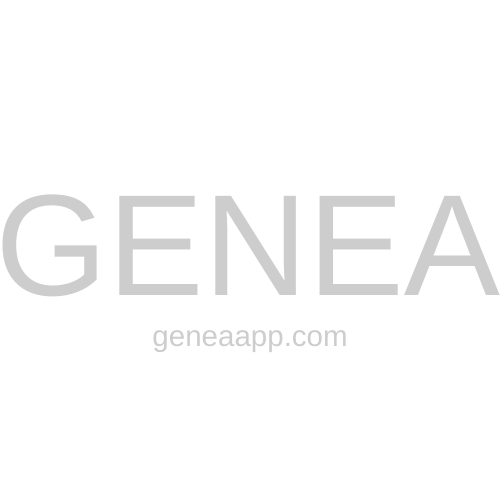
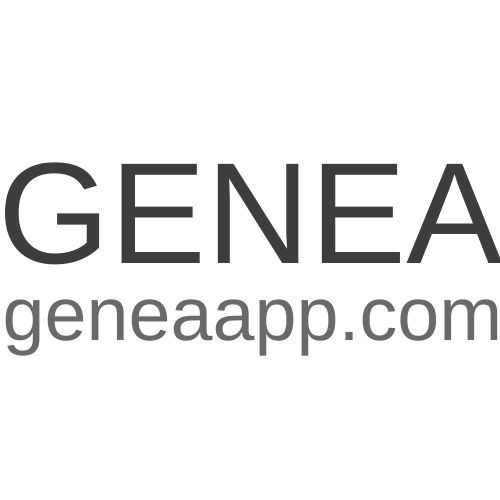
feat/watermark added

Changed region(s): [[0.0, 0.3, 1.0, 0.72]]

diff --git a/lib/storage-server.ts b/lib/storage-server.ts
@@ -1,4 +1,6 @@
 import { createClient } from "@supabase/supabase-js";
+import sharp from "sharp";
+import path from "path";
 
 const supabase = createClient(
   process.env.NEXT_PUBLIC_SUPABASE_URL!,
@@ -7,11 +9,41 @@ const supabase = createClient(
 
 type BucketName = "sin-modelo" | "prenda-unica" | "prendas-separadas";
 
+async function applyWatermark(imageBuffer: Buffer): Promise<Buffer> {
+  const watermarkPath = path.join(process.cwd(), "public", "GENEA.png");
+  const image = sharp(imageBuffer);
+  const metadata = await image.metadata();
+
+  const imgWidth = metadata.width || 1024;
+  const imgHeight = metadata.height || 1024;
+
+  const watermarkSize = Math.round(imgWidth * 0.15);
+  const margin = Math.round(imgWidth * 0.02);
+
+  const watermark = await sharp(watermarkPath)
+    .resize(watermarkSize, watermarkSize, { fit: "inside" })
+    .ensureAlpha()
+    .png()
+    .toBuffer();
+
+  const watermarkMeta = await sharp(watermark).metadata();
+
+  return image
+    .composite([{
+      input: watermark,
+      top: imgHeight - (watermarkMeta.height || watermarkSize) - margin,
+      left: imgWidth - (watermarkMeta.width || watermarkSize) - margin,
+    }])
+    .jpeg()
+    .toBuffer();
+}
+
 export async function downloadAndUploadImage(
   bucket: BucketName,
   folder: "upload" | "generated",
   userId: string,
-  imageUrl: string
+  imageUrl: string,
+  userRole?: string
 ): Promise<string | null> {
   try {
     const response = await fetch(imageUrl);
@@ -19,21 +51,25 @@ export async function downloadAndUploadImage(
 
     const blob = await response.blob();
     const arrayBuffer = await blob.arrayBuffer();
-    const buffer = Buffer.from(arrayBuffer);
+    let buffer = Buffer.from(arrayBuffer);
+
+    if (userRole === "USER") {
+      buffer = await applyWatermark(buffer);
+    }
 
     const fileName = `${Date.now()}-${Math.random().toString(36).slice(2)}.jpg`;
-    const path = `${folder}/${userId}/${fileName}`;
+    const filePath = `${folder}/${userId}/${fileName}`;
 
     const { error } = await supabase.storage
       .from(bucket)
-      .upload(path, buffer, { contentType: "image/jpeg" });
+      .upload(filePath, buffer, { contentType: "image/jpeg" });
 
     if (error) {
       console.error("Upload error:", error);
       return null;
     }
 
-    const { data } = supabase.storage.from(bucket).getPublicUrl(path);
+    const { data } = supabase.storage.from(bucket).getPublicUrl(filePath);
     return data.publicUrl;
   } catch (error) {
     console.error("Download and upload error:", error);

diff --git a/app/api/generate/[requestId]/route.ts b/app/api/generate/[requestId]/route.ts
@@ -1,5 +1,6 @@
 import { NextRequest, NextResponse } from "next/server";
 import { downloadAndUploadImage } from "@/lib/storage-server";
+import { auth } from "@/lib/auth";
 
 type BucketName = "sin-modelo" | "prenda-unica" | "prendas-separadas";
 
@@ -12,6 +13,9 @@ export async function GET(
     const { searchParams } = new URL(req.url);
     const bucket = searchParams.get("bucket") as BucketName | null;
     const userId = searchParams.get("userId");
+
+    const session = await auth();
+    const userRole = session?.user?.role;
 
     const response = await fetch(
       `https://api.wavespeed.ai/api/v3/predictions/${requestId}/result`,
@@ -33,7 +37,7 @@ export async function GET(
     // Si está completado y tenemos bucket/userId, guardar en Storage
     if (data.data?.status === "completed" && bucket && userId && outputs.length > 0) {
       const uploadedUrls = await Promise.all(
-        outputs.map((url: string) => downloadAndUploadImage(bucket, "generated", userId, url))
+        outputs.map((url: string) => downloadAndUploadImage(bucket, "generated", userId, url, userRole))
       );
       outputs = uploadedUrls.filter((url): url is string => url !== null);
     }

diff --git a/components/dashboard/ImageUpload.tsx b/components/dashboard/ImageUpload.tsx
@@ -14,12 +14,10 @@ export default function ImageUpload({ onImageSelect, disabled }: ImageUploadProp
 
   const handleFile = useCallback(
     (file: File) => {
-      if (file.type.startsWith("image/")) {
-        const reader = new FileReader();
-        reader.onload = (e) => setPreview(e.target?.result as string);
-        reader.readAsDataURL(file);
-        onImageSelect?.(file);
-      }
+      const reader = new FileReader();
+      reader.onload = (e) => setPreview(e.target?.result as string);
+      reader.readAsDataURL(file);
+      onImageSelect?.(file);
     },
     [onImageSelect]
   );
@@ -88,7 +86,7 @@ export default function ImageUpload({ onImageSelect, disabled }: ImageUploadProp
             type="file"
             accept="image/*"
             onChange={handleChange}
-            className="hidden"
+            className="sr-only"
           />
         </label>
       )}
